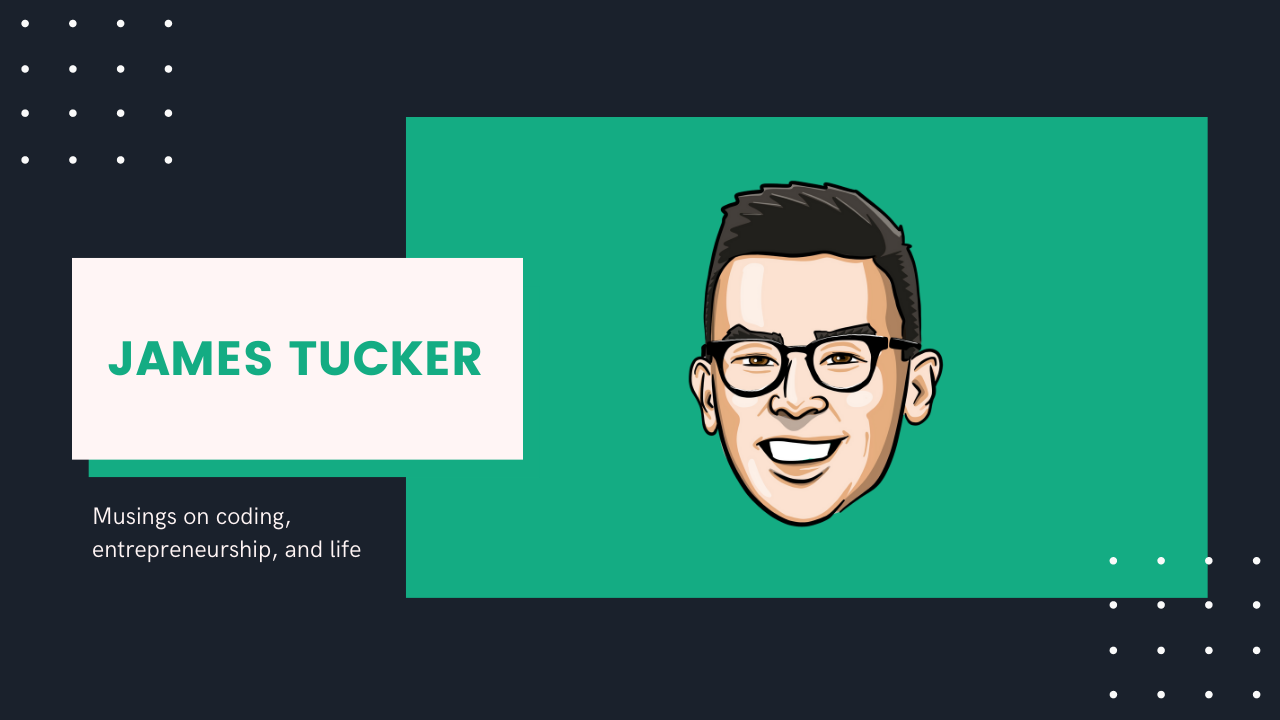
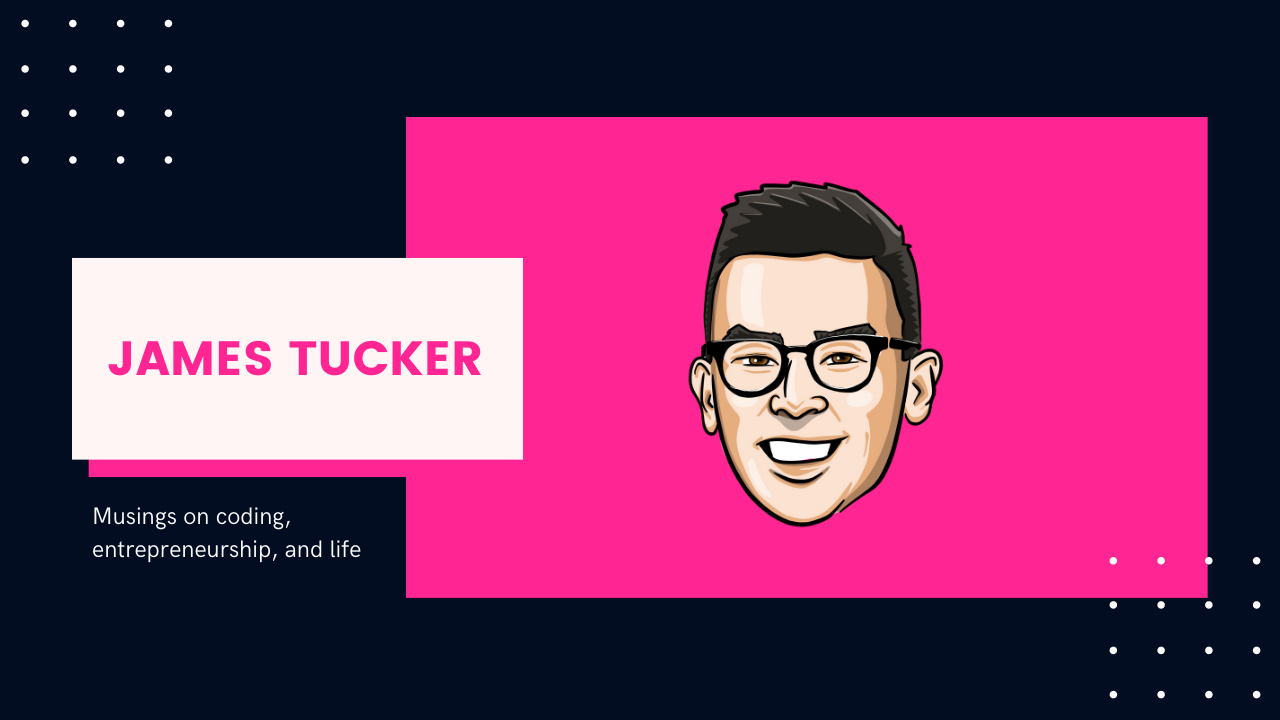
updated color scheme to include colors from vscode 2077 theme

diff --git a/src/components/Nav.svelte b/src/components/Nav.svelte
@@ -32,7 +32,7 @@ let isDarkMode;
 	a:hover {
 		transform: scale(1.1);
 		text-decoration: underline;
-		text-decoration-color: #14AC83;
+		text-decoration-color: #ff2592;
 	}
 
 	.brand {
@@ -49,24 +49,24 @@ let isDarkMode;
 	/* dark mode styles */
 	:global(body) {
 		background-color: #ffff;
-		color: #1A212C;
+		color: #030D22;
 		transition: background-color 0.3s
 	}
 	:global(body) a {
 		transition: background-color 0.3s
 	}
 	:global(body.dark-mode) {
-		background-color: #1A212C;
+		background-color: #030D22;
 		color: #ffff;
 	}
 
-	:global(body.dark-mode) a {
+	/* :global(body.dark-mode) a {
 		color: #ffff;
 		transition: background-color 0.3s
-	}
+	} */
 
 	.nav-link {
-		color: #14AC83;
+		color: #ff2592;
 	}
 
 </style>

diff --git a/static/skeleton.css b/static/skeleton.css
@@ -186,7 +186,7 @@ body {
   line-height: 1.7;
   font-weight: 400;
   font-family: "Anaheim", sans-serif;
-  color: #1a212c;
+  color: #030d22;
 }
 
 /* Typography
@@ -496,7 +496,7 @@ hr {
 /* Links */
 
 a {
-  color: #14ac83;
+  color: #ff2592;
   text-decoration: none;
 }
 
@@ -548,7 +548,7 @@ there.
 /* Custom styles */
 blockquote {
   background: #f9f9f9;
-  border-left: 10px solid #14ac83;
+  border-left: 10px solid #ffd400;
   margin: 1.5em 10px;
   padding: 0.5em 10px;
   color: #1a212c !important;
@@ -566,6 +566,6 @@ img {
 
 .blog-post-img {
   margin: 2rem 0rem;
-  border: 2px dashed #14ac83;
+  border: 2px dashed #ffd400;
   padding: 0.5rem;
 }

diff --git a/src/components/DarkMode.svelte b/src/components/DarkMode.svelte
@@ -11,7 +11,7 @@ function toggle() {
 </button>
 <style>
 	button {
-		color: #1A212C;
+		color: #030D22;
         padding: 1rem;
         display: flex;
 		align-items: center;
@@ -19,6 +19,6 @@ function toggle() {
 		
 	}
 	:global(body.dark-mode) button {
-        color: white;
+        color: #ffd400;
 	}
 </style>

diff --git a/src/routes/blog/[slug].svelte b/src/routes/blog/[slug].svelte
@@ -38,12 +38,16 @@
     font-size: 4rem;
   }
   .tag-btn {
-    color: #14AC83;
+    color: #030D22;
     width: fit-content;
     padding: .2em .4em;
     border-radius: 3px;
     font-size: .75em;
   }
+
+  :global(body.dark-mode) .tag-btn {
+    color: #ffd400;
+	}
 
   .tag-btn:hover {
     cursor: pointer;

diff --git a/src/routes/index.svelte b/src/routes/index.svelte
@@ -79,16 +79,12 @@
 
 
 	.social-link {
-		color: #1A212C;
+		color: #ff2592;
 		margin-right: 1rem;
 	}
 
 	:global(.social-icon):hover {
 		transform: scale(1.2);
-	}
-
-	:global(body.dark-mode) .social-link {
-		color: #ffff;
 	}
 
 	

diff --git a/src/components/Footer.svelte b/src/components/Footer.svelte
@@ -6,7 +6,7 @@
     }
 
     a {
-        color: #14AC83;
+        color: #ff2592;
     }
 
 </style>
